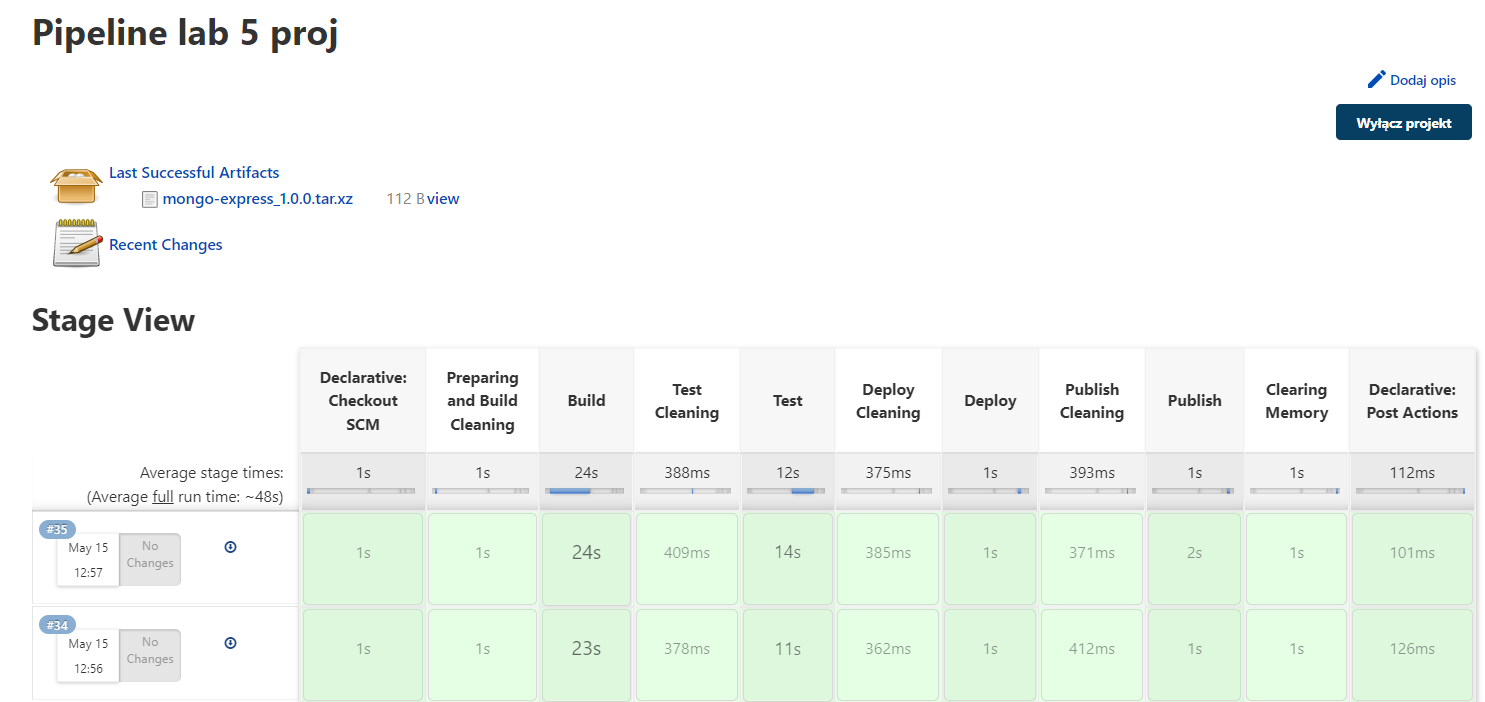
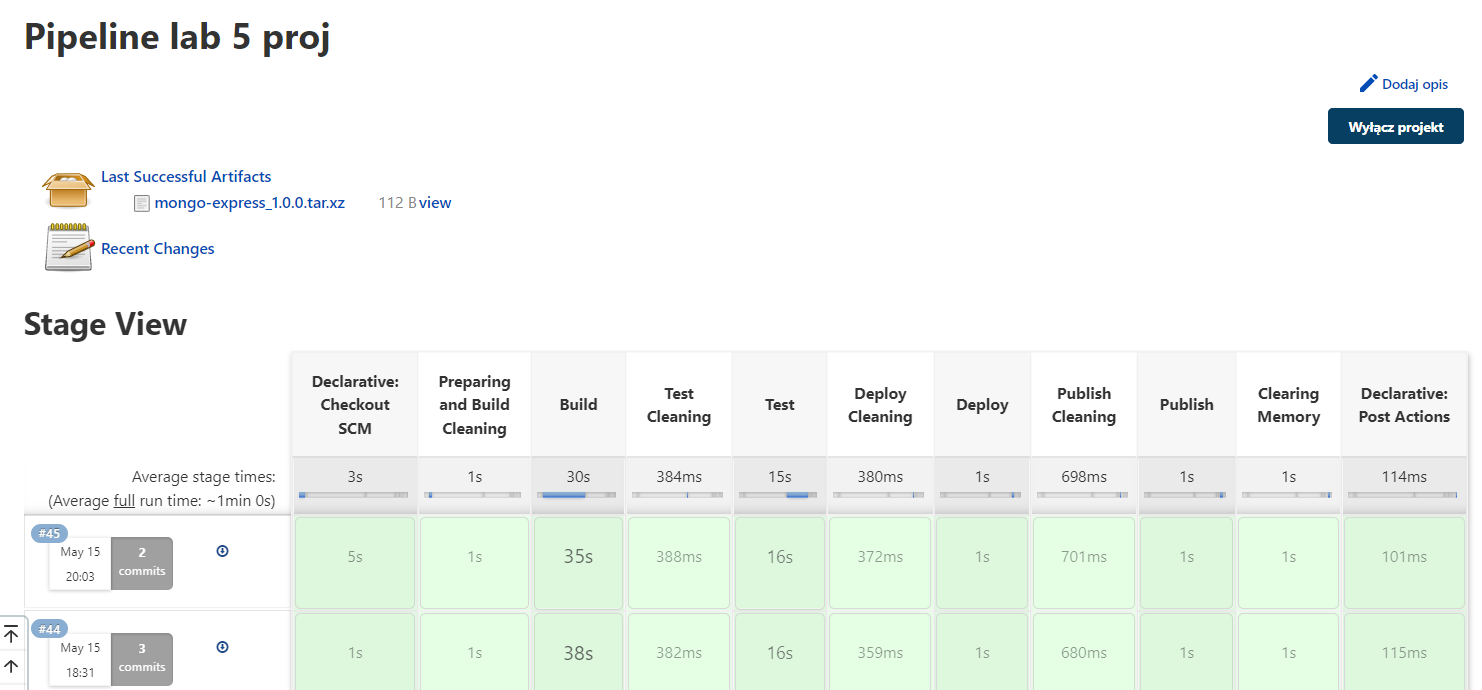
KN401526 Lab05

diff --git a/ITE/GCL06/KN401526/Lab05/sprawozdanie.md b/ITE/GCL06/KN401526/Lab05/sprawozdanie.md
@@ -274,10 +274,15 @@ Powyzszy Dockerfile odpowiada za przeprowadzenie testow znajdujacych sie w repoz
     ```
     Opis:
 
-    Powyzszy fragment kodu odpowiada za wyswietlenie wiadomosci czy Pipline zakonczyl sie succesem czy porazka
+    Powyzszy fragment kodu odpowiada za wyswietlenie wiadomosci o udanym zakonczeniu Pipline zakonczyl sie succesem czy porazka
 
     11. Przykladowe uruchmienie
 
+    ![img](uruchomienie.PNG)
+
+    Opis:
+
+    Powyzszy zrzut ekranu przedstawia przykladowe uruchomienie napisanego Piplina jak widac na powyzszym zrzucie wszystkie etapy zakonczyly sie sukcesem i mozn zaobserwowoac stworzenie sie starowanego pliku z artefaktami
 
    
 
